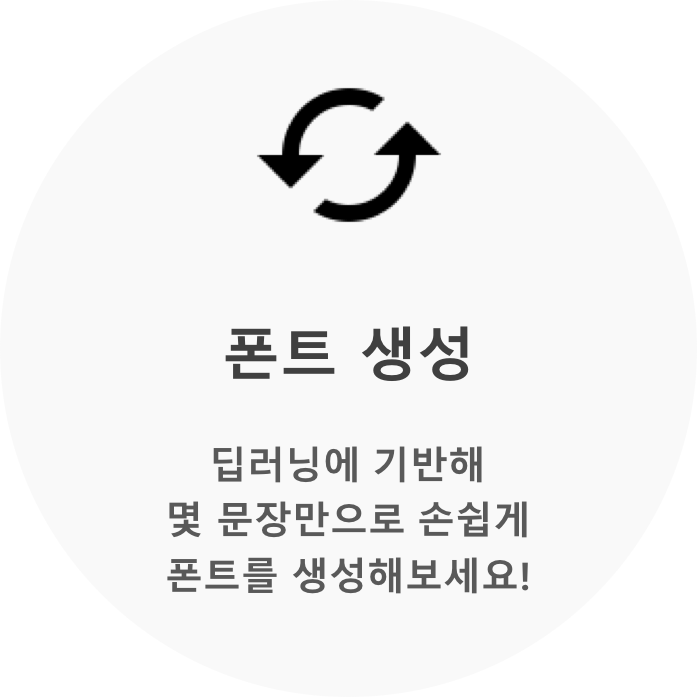
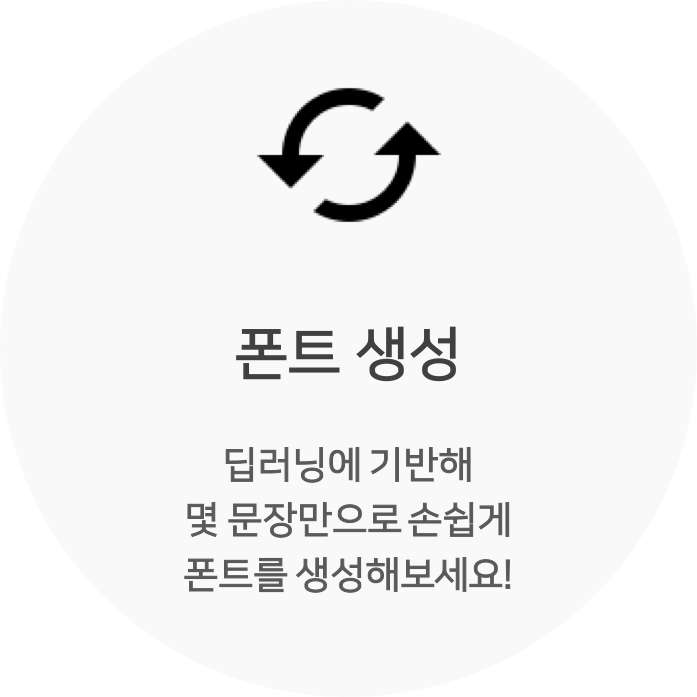
폰트 변경 (나눔스퀘어)
—
Redmine Issue Progress / ID / Time : - - -
—
What :
- 폰트변경

Why :
- 프론트구현
—
*Signed-off-by: Junyoung, Sung <wnsdud1861@gmail.com>*

diff --git a/client/main.html b/client/main.html
@@ -3,7 +3,9 @@
     <meta name="description" content="fontto - 폰트를 만드는 가장 쉬운 방법">
     <meta name="viewport" content="width=device-width, initial-scale=1.0, minimum-scale=1.0, user-scalable=no"/>
     <!--roboto font import-->
-    <link href="https://fonts.googleapis.com/css?family=Roboto" rel="stylesheet" type="text/css">
+    <!--<link href="https://fonts.googleapis.com/css?family=Roboto" rel="stylesheet" type="text/css">-->
+    <!--nanumsquare font -->
+    <link rel="stylesheet" href="//cdn.rawgit.com/hiun/NanumSquare/master/nanumsquare.css">
 </head>
 <body style="margin: 0;">
 <div id="react-root"></div>

diff --git a/client/main.css b/client/main.css
@@ -1,5 +1,5 @@
 * {
-    font-family: 'Roboto', sans-serif;
+    font-family: 'Nanum Square';
 }
 
 body {
